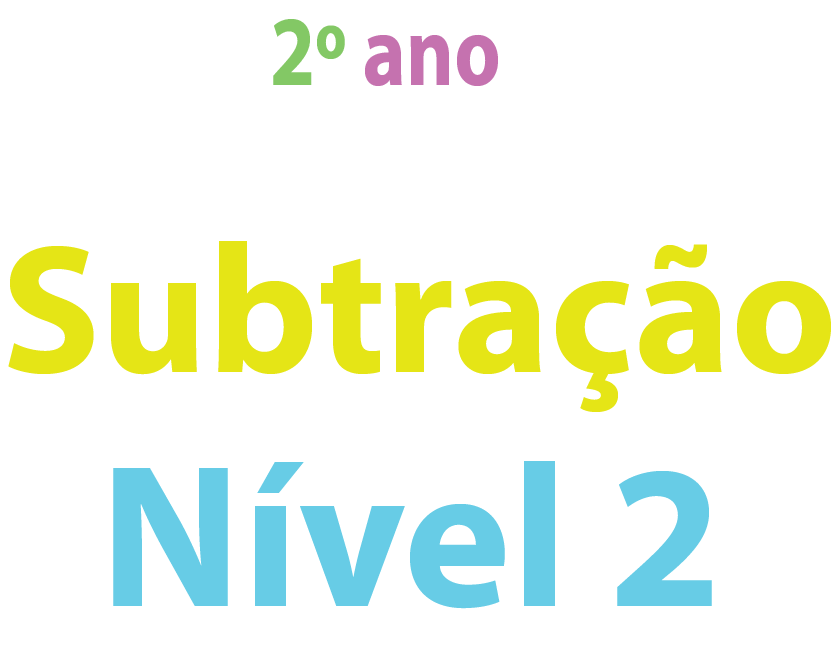
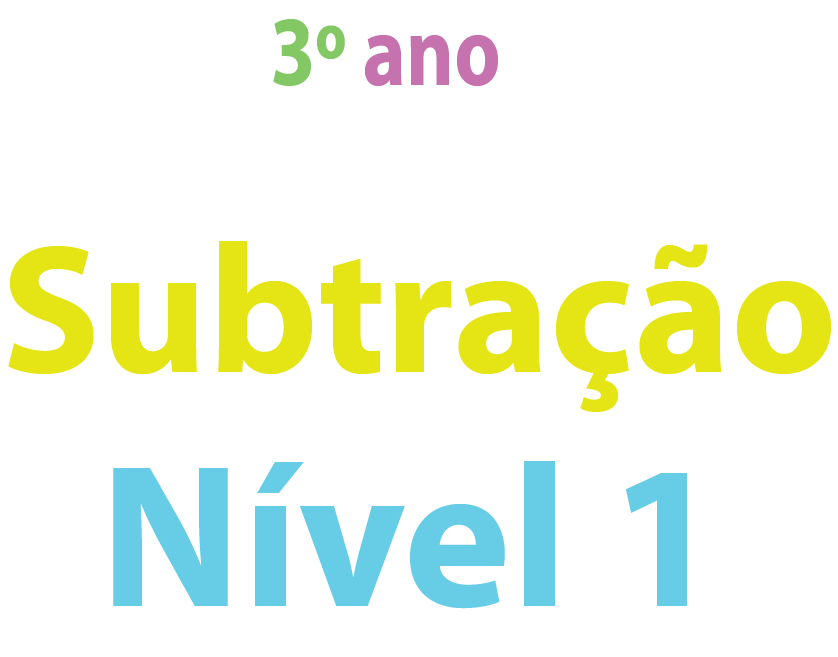
feat: titulo e img

Changed region(s): [[0.7136, 0.7002, 0.8687, 0.9437], [0.3103, 0.0609, 0.3723, 0.1522]]

diff --git a/index.html b/index.html
@@ -4,7 +4,7 @@
 <head>
   <meta charset="UTF-8">
   <meta name="viewport" content="width=device-width, initial-scale=1.0">
-  <title>Subtração - Nível 2</title>
+  <title>Subtração - Nível 1</title>
 
   <link rel="shortcut icon" href="./favicon.ico" />
   <!-- Chrome, Firefox OS and Opera -->
